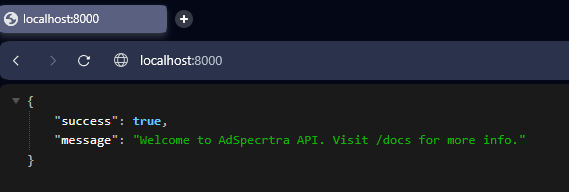
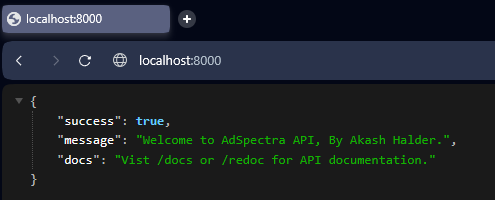
update Readme

diff --git a/README.md b/README.md
@@ -9,6 +9,8 @@
 
 <img src="./assets/api-docs.png" alt="API Docs">
 
+<img src="./assets/model-response.png" alt="Model Response"><br/>
+
 ---
 ## Frontend: Build with React
 <img src="./assets/landing-page.png" alt="Landing Page"><br/>
@@ -16,3 +18,5 @@
 <img src="./assets/predictions.png" alt="Predict Page"><br/>
 
 <img src="./assets/analytics.png" alt="Analytics Page"><br/>
+
+---
